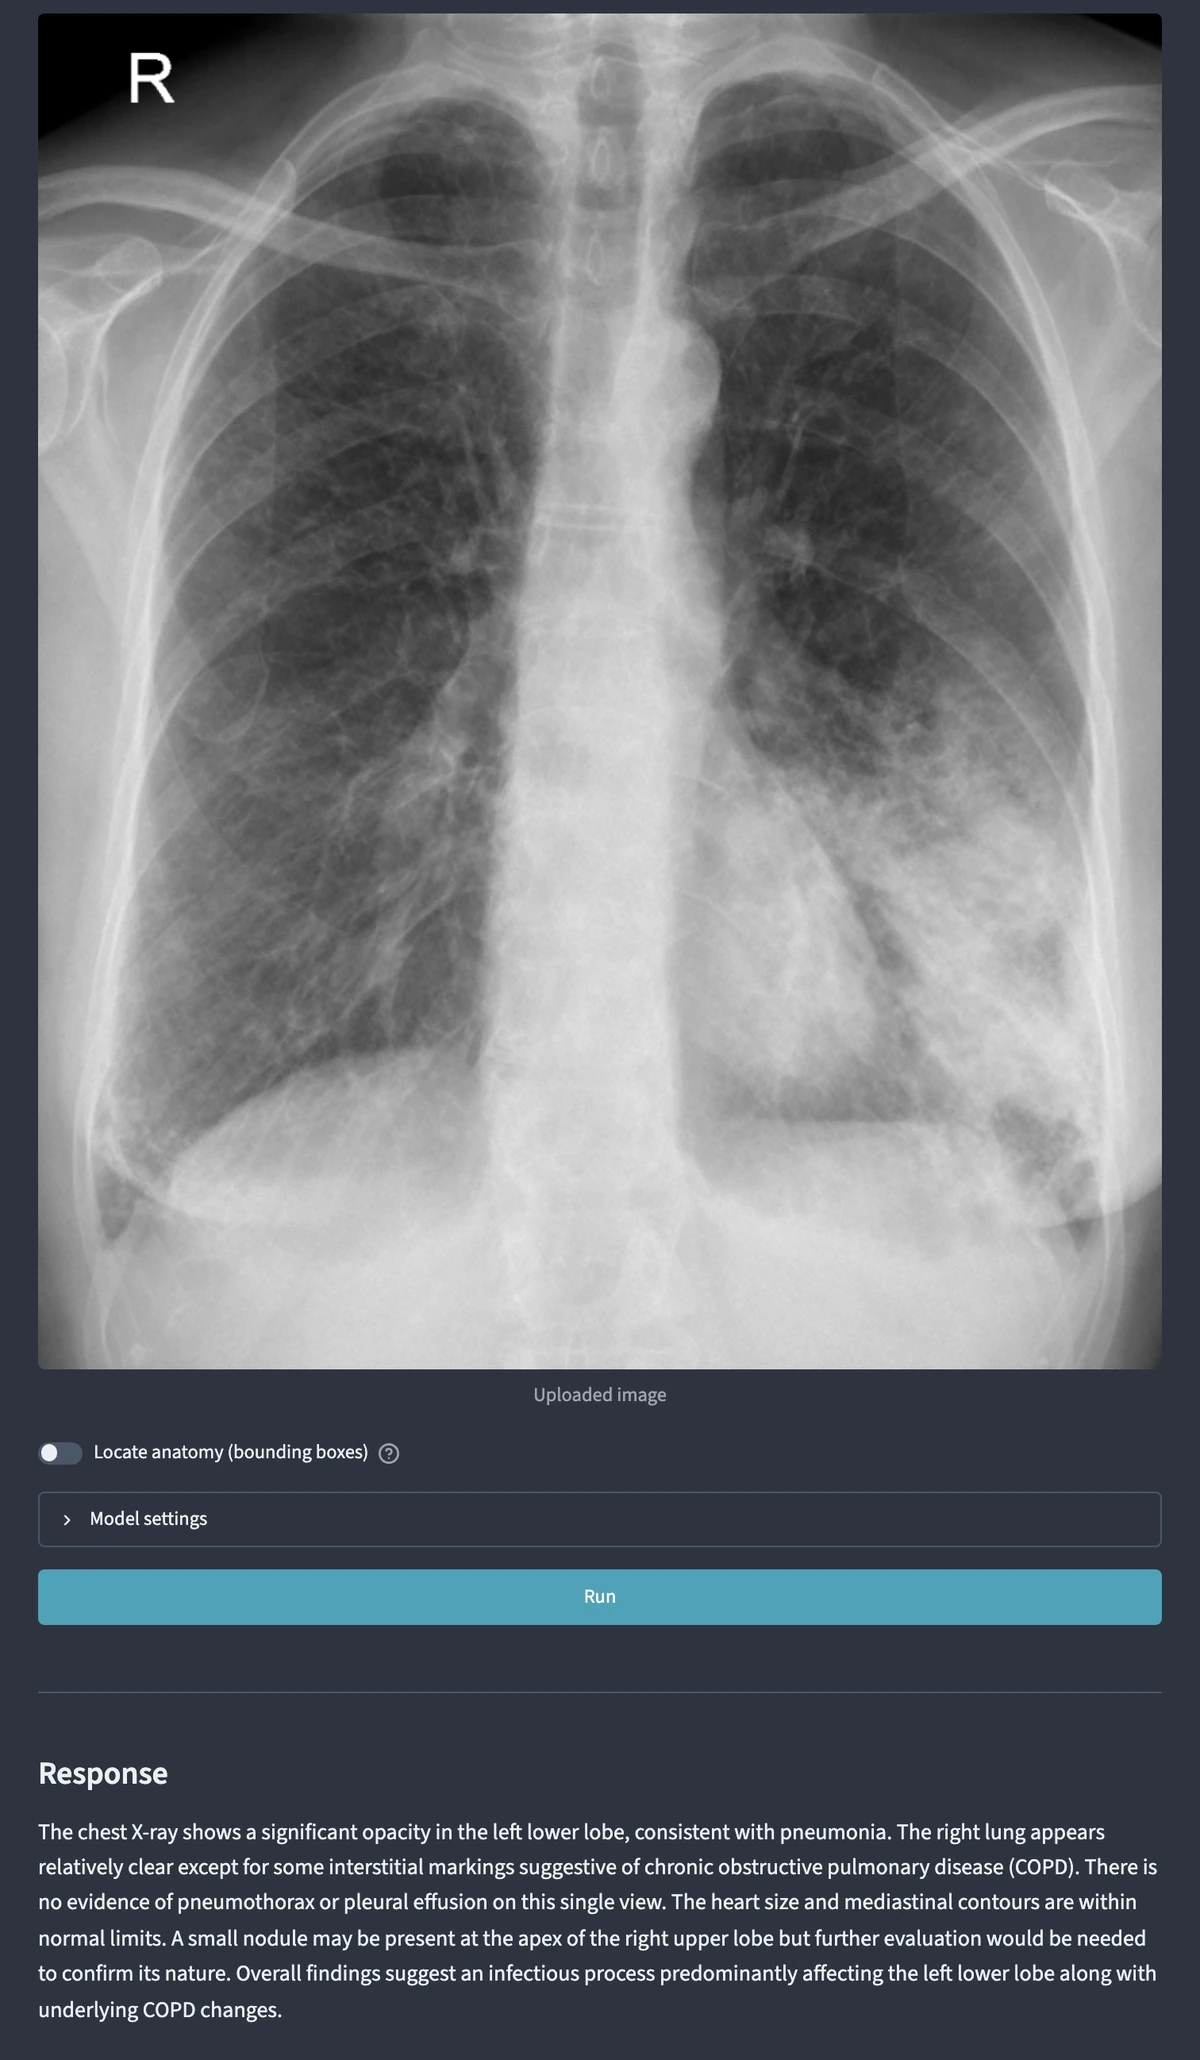
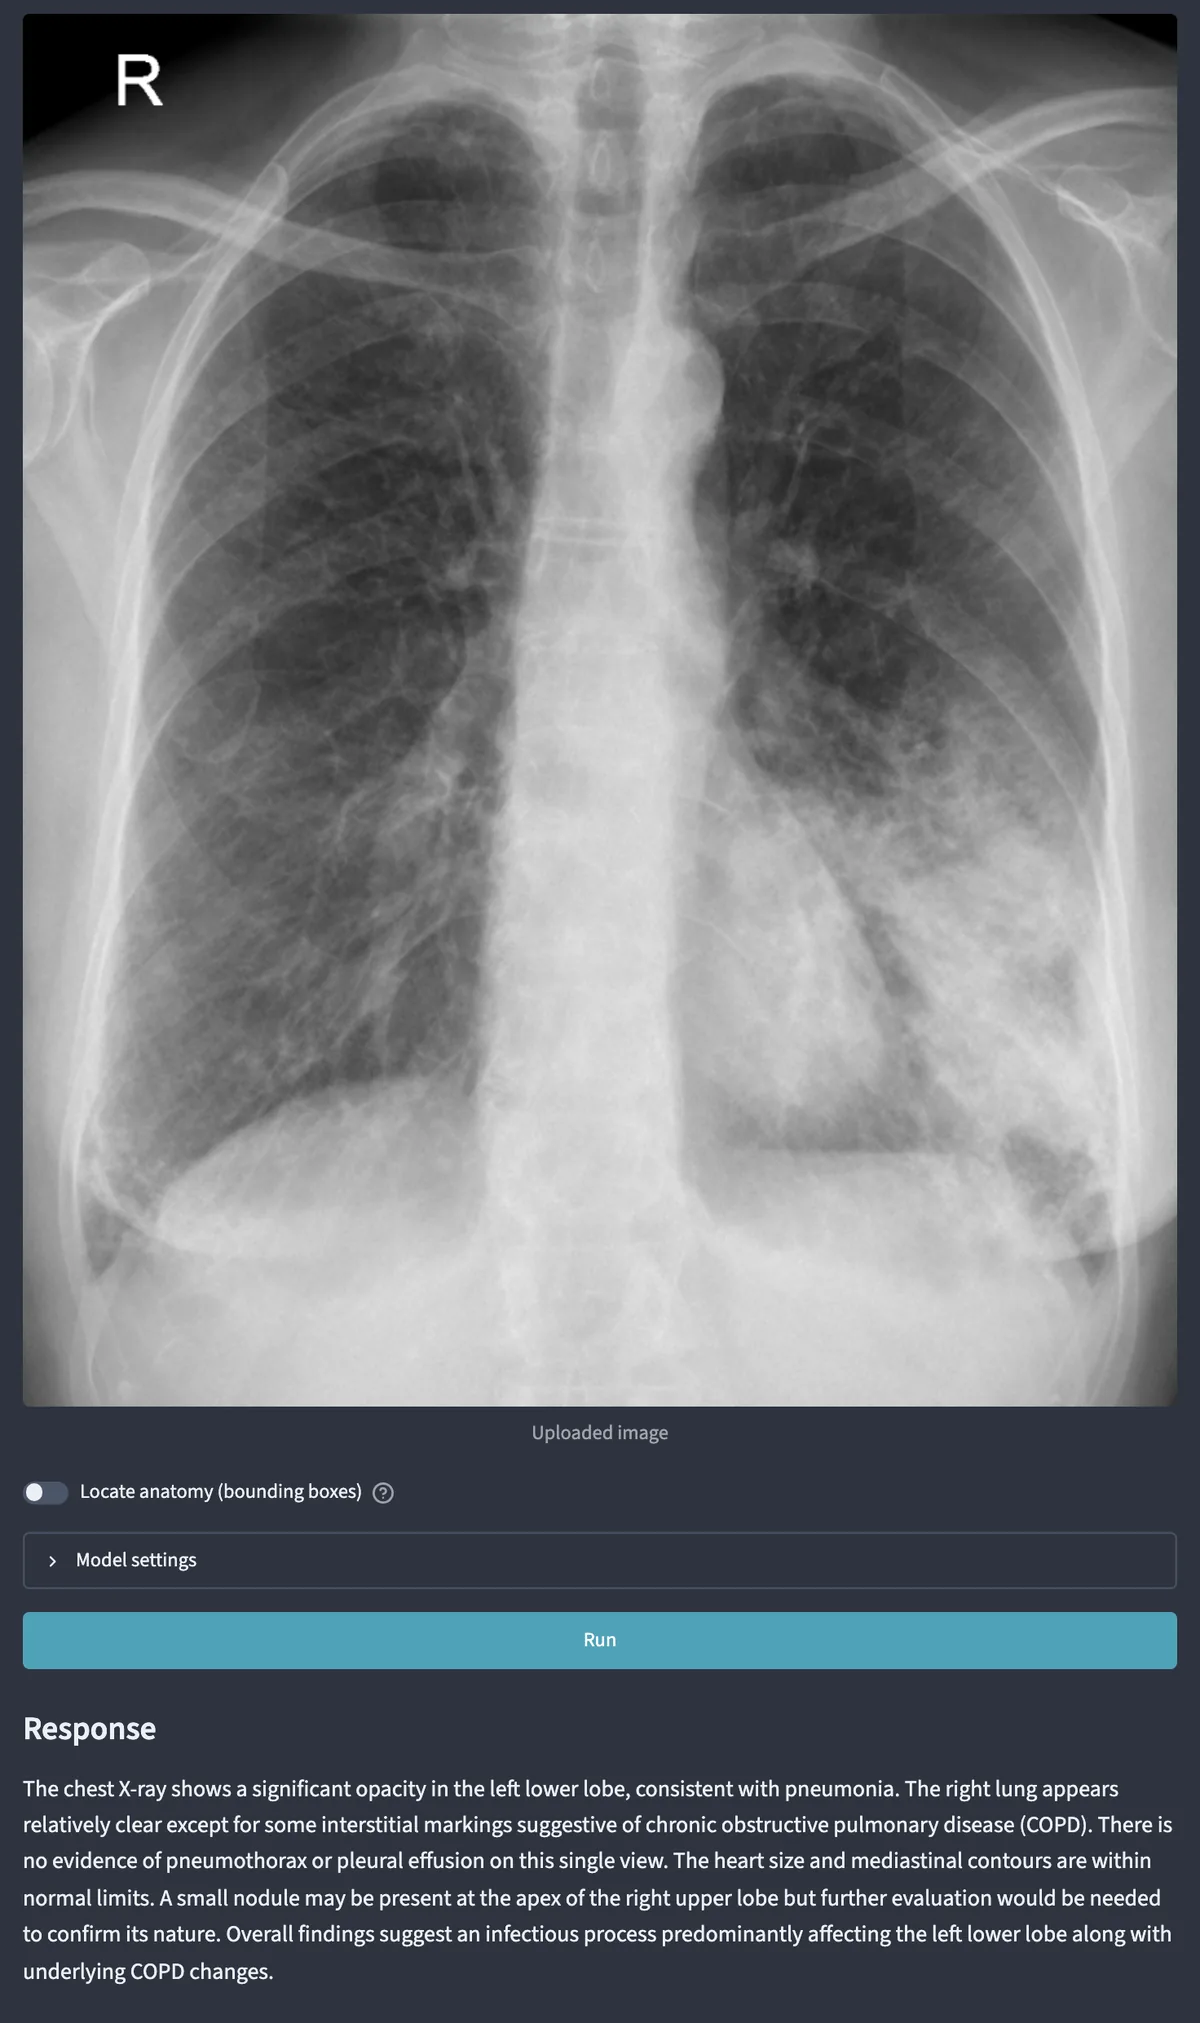
docs: regenerate the readme hero without the response divider
style(ui) removed the st.divider() above "Response", so the shipped hero
showed a rule the app no longer draws. TestReadmeAssets only checks that the
file resolves and stays embedded, so nothing went red.

Captured with the Playwright recipe in CLAUDE.md against the same sample
radiograph and the same prompt; generation is temperature=0, so the answer
text is byte-identical to the previous hero and the only visual change is
the missing rule. Height drops 2060 -> 2023 px, which is that divider and
its spacing.

Also records the one trap the recipe did not cover: anchor the top crop on
[data-testid="stImage"], not on .st-key-cxr_image1. Once image 1 loads, the
optional second-image uploader renders between the first uploader and the
preview, so anchoring on the uploader pulls an extra dropzone into the shot.

diff --git a/CLAUDE.md b/CLAUDE.md
@@ -130,7 +130,7 @@ Drive the CXR tab (attach the sample via `input[type="file"]`, plain-analysis pr
 - **Ask for brevity or the answer truncates mid-word** — plain CXR analysis has a **300-token** budget (`get_generation_params`), and a prompt that elicits a bolded numbered list spends enough of it on formatting to stop mid-item. "Briefly summarize the key findings in this chest X-ray." completes; "Describe this chest X-ray." does not. Generation is `temperature=0`, so prompt→output is reproducible — iterate on the prompt rather than re-rolling.
 - **`color_scheme="dark"` is now belt-and-braces** — the theme is locked to one dark mode, so the app no longer follows `prefers-color-scheme`; keep the flag anyway so the shot stays reproducible if the theme ever regains a light variant.
 - **Use a viewport taller than the whole app** — Streamlit scrolls *inside* `section[data-testid="stMain"]`, so `full_page` otherwise grabs one band and clips the title/response. The full-page intermediate (`docs/screenshot-full.png`) is a gitignored throwaway.
-- **Crop horizontally to `[data-testid="stMainBlockContainer"]`** — `layout="centered"` keeps the content column far narrower than the viewport, so a full-width crop leaves ~160px of dead background down each side and shrinks the radiograph that is the point of the shot (1200×1581 with the margins vs 1200×2060 without). The top margin above the image wants to be small: ~8px is right, while 24px reaches back far enough to catch the bottom border of the file uploader above it.
+- **Crop horizontally to `[data-testid="stMainBlockContainer"]`** — `layout="centered"` keeps the content column far narrower than the viewport, so a full-width crop leaves ~160px of dead background down each side and shrinks the radiograph that is the point of the shot (1200×1581 with the margins vs 1200×2060 without). The top margin above the image wants to be small: ~8px is right, while 24px reaches back far enough to catch the bottom border of the file uploader above it. **Anchor that top edge on `[data-testid="stImage"]`, not on `.st-key-cxr_image1`** — once image 1 loads, the optional second-image uploader renders *between* the first uploader and the preview, so anchoring on the first uploader's box drags a whole extra dropzone ("Upload a second image to compare", "200MB per file") into the hero.
 - **Crop the bottom by pixels, not by bbox** — `[data-testid="stMainBlockContainer"]`'s own box carries several hundred px of trailing padding past the last line of the answer. Scan rows upward for the first that differs from the theme's `backgroundColor` (`#2e3440`) instead. Note the ephemeral Playwright install pulls the *current* release, which may want a newer Chromium than the shared `~/Library/Caches/ms-playwright` build — `python -m playwright install chromium-headless-shell` if launch fails on a missing executable.
 
 `TestReadmeAssets` guards that the hero stays embedded and every repo-relative README link resolves.
